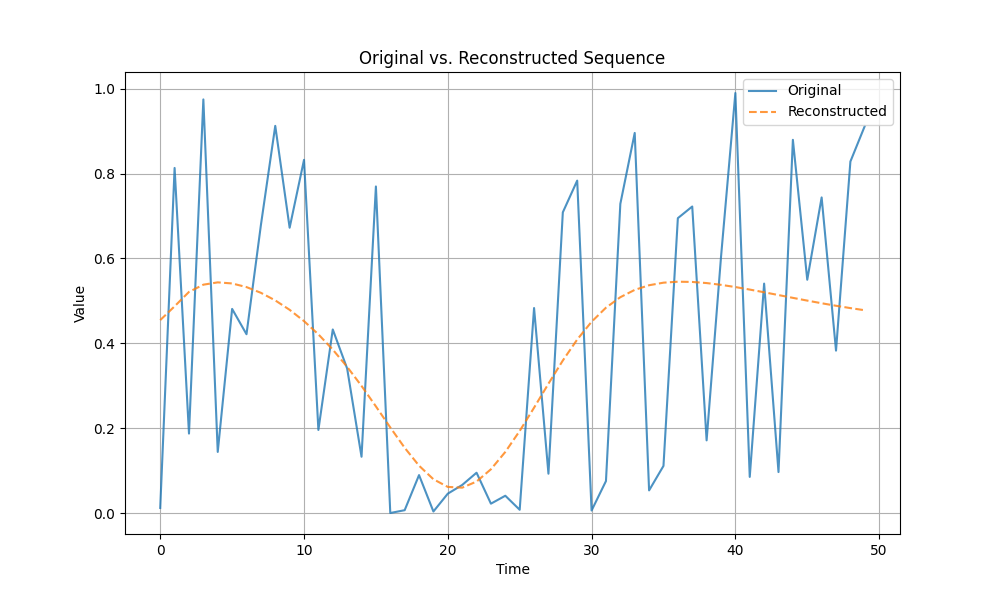
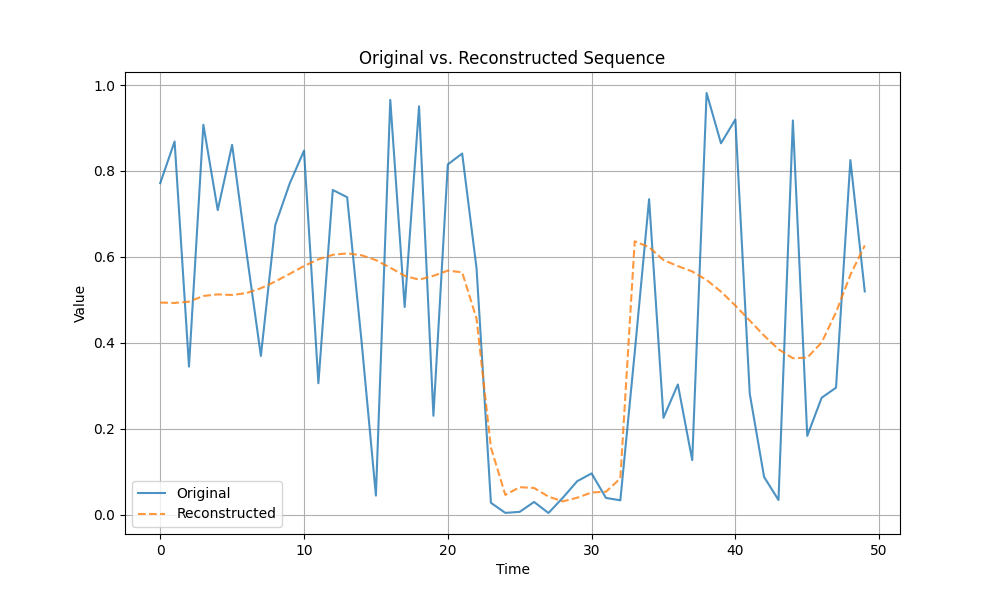
added linear layer after the LSTM. Mircale maker!

Changed region(s): [[0.093, 0.12, 0.899, 0.87], [0.093, 0.57, 0.124, 0.6]]

diff --git a/lstm_ae.py b/lstm_ae.py
@@ -1,17 +1,19 @@
 from torch import nn
 
 class LSTM_AE(nn.Module):
-    def __init__(self, input_size, hidden_size):
+    def __init__(self, input_size, hidden_size, num_layers = 1):
         super(LSTM_AE, self).__init__()
         self.input_size = input_size
         self.hidden_size = hidden_size
 
-        self.encoder = nn.LSTM(input_size = input_size, hidden_size = hidden_size, num_layers=1, batch_first=True)
-        self.decoder = nn.LSTM(input_size = hidden_size, hidden_size = hidden_size, num_layers=1, batch_first=True, proj_size=1)
+        self.encoder = nn.LSTM(input_size = input_size, hidden_size = hidden_size, num_layers=num_layers, batch_first=True)
+        self.decoder = nn.LSTM(input_size = hidden_size, hidden_size = hidden_size, num_layers=num_layers, batch_first=True)
+        self.linear = nn.Linear(in_features=hidden_size, out_features=input_size, bias=False)
 
     def forward(self, x):
         _, (context, _) = self.encoder(x)
         context = context.repeat(x.size(1), 1, 1).permute(1, 0, 2)
-        output, _ = self.decoder(context)
+        decoder_output, _ = self.decoder(context)
+        output = self.linear(decoder_output)
 
         return output

diff --git a/lstm_ae_toy.py b/lstm_ae_toy.py
@@ -140,10 +140,10 @@ if __name__ == '__main__':
     parser = argparse.ArgumentParser()
     parser.add_argument("--input-size", type=int, default=1)
     parser.add_argument("--hidden-size", type = int, default = 32)
-    parser.add_argument("--learning-rate", type=float, default=1e-3)
+    parser.add_argument("--learning-rate", type=float, default=1e-2)
     parser.add_argument("--batch-size", type=int, default=128)
     parser.add_argument("--gradient-clipping", type=float, default=0.5)
-    parser.add_argument("--epochs", type=int, default=5)
+    parser.add_argument("--epochs", type=int, default=150)
 
     args = parser.parse_args()
 
